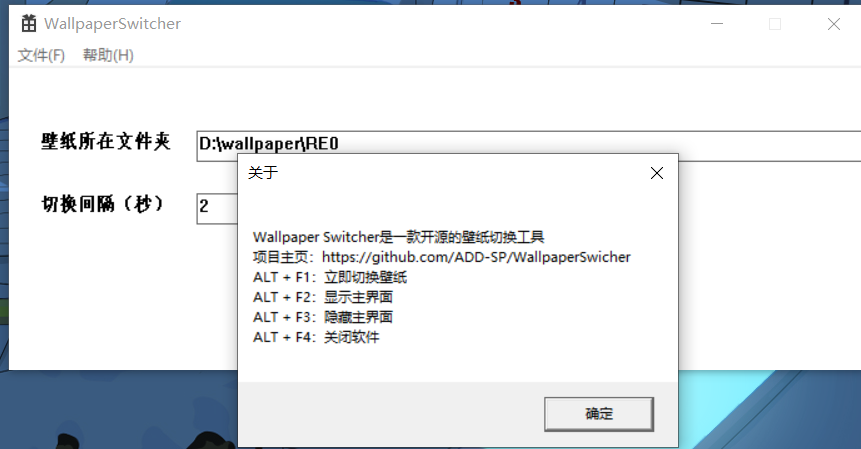
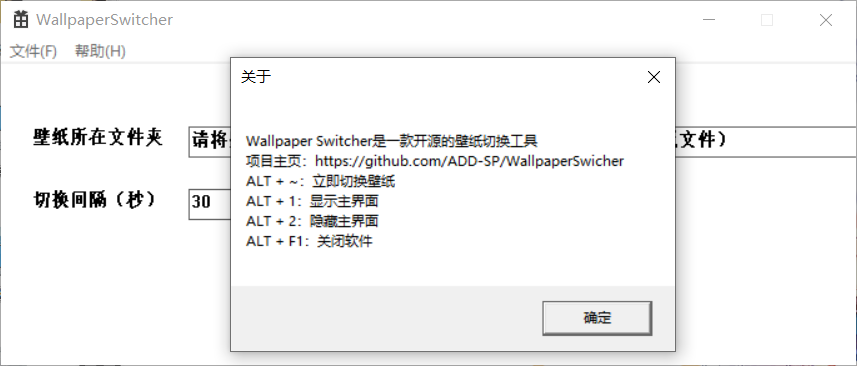
修复了重启后配置丢失BUG，更改了快捷键，在不是第一次打开的时候自动隐藏窗口；

Changed region(s): [[0.0, 0.0, 1.0, 1.0]]

diff --git a/WallpaperSwitcher/Project3.cpp b/WallpaperSwitcher/Project3.cpp
@@ -21,7 +21,7 @@
 #define HOT_KEY_SHOW 3
 #define HOT_KEY_DESTORY 4
 #define GUIDE L"请将壁纸所在文件夹拖拽到此处（目录下不能有任何非壁纸文件）"
-#define ABOUT L"Wallpaper Switcher是一款开源的壁纸切换工具\n项目主页：https://github.com/ADD-SP/WallpaperSwicher\nALT + F1：立即切换壁纸\nALT + F2：显示主界面\nALT + F3：隐藏主界面\nALT + F4：关闭软件"
+#define ABOUT L"Wallpaper Switcher是一款开源的壁纸切换工具\n项目主页：https://github.com/ADD-SP/WallpaperSwicher \nALT + ~：立即切换壁纸\nALT + 1：显示主界面\nALT + 2：隐藏主界面\nALT + F1：关闭软件"
 #define CONFIG_FILE (L"config.ini")
 
 using std::unordered_set;
@@ -56,7 +56,8 @@ void				SetWallpaperFolder(HWND hWnd);
 void				fillWallpaperSet(HWND hWnd);
 void				HotKeyProc(WPARAM wParam);
 void				fillThrowedWallpaperSet(HWND hWnd);
-void				initConfigFile();
+void				InitConfigFile();
+void				SaveConfigFile();
 void				SetSwichTime();
 
 int APIENTRY wWinMain(_In_ HINSTANCE hInstance,
@@ -83,7 +84,7 @@ int APIENTRY wWinMain(_In_ HINSTANCE hInstance,
     HACCEL hAccelTable = LoadAccelerators(hInstance, MAKEINTRESOURCE(IDC_PROJECT3));
 
 	srand(time(0));
-	initConfigFile();
+	InitConfigFile();
 
     MSG msg;
     // 主消息循环:
@@ -193,19 +194,19 @@ BOOL InitInstance(HINSTANCE hInstance, int nCmdShow)
 	   // CW_USEDEFAULT, 0, 700, 300, nullptr, nullptr, hInstance, nullptr);
 
 
-   // 注册快捷键 ALT + F1，功能为立即切换壁纸
-   RegisterHotKey(g_hWnd, HOT_KEY_SWITCH_WALLPAPER, MOD_ALT, VK_F1);
+   // 注册快捷键 ALT + ~，功能为立即切换壁纸
+   RegisterHotKey(g_hWnd, HOT_KEY_SWITCH_WALLPAPER, MOD_ALT, VK_OEM_3);
    
    // RegisterHotKey(hWnd, HOT_KEY_THROW_WALLPAPER, MOD_CONTROL, 0x44);
   
-   // 注册快捷键 ALT + F3，功能为隐藏软件界面
-   RegisterHotKey(g_hWnd, HOT_KEY_HIDE, MOD_ALT, VK_F3);
+   // 注册快捷键 ALT + 2，功能为隐藏界面
+   RegisterHotKey(g_hWnd, HOT_KEY_HIDE, MOD_ALT, 0x32);
 
-   // 注册快捷键 ALT + F2，功能为显示软件界面
-   RegisterHotKey(g_hWnd, HOT_KEY_SHOW, MOD_ALT, VK_F2);
+   // 注册快捷键 ALT + 1，功能为显示软件界面
+   RegisterHotKey(g_hWnd, HOT_KEY_SHOW, MOD_ALT, 0x31);
 
-   // 注册快捷键 ALT + F4，功能为关闭软件
-   RegisterHotKey(g_hWnd, HOT_KEY_DESTORY, MOD_ALT, VK_F4);
+   // 注册快捷键 ALT + F1，功能为关闭软件
+   RegisterHotKey(g_hWnd, HOT_KEY_DESTORY, MOD_ALT, VK_F1);
    
 
    if (!g_hWnd || !g_hFirstEdit || !g_hButton)
@@ -271,6 +272,7 @@ LRESULT CALLBACK WndProc(HWND hWnd, UINT message, WPARAM wParam, LPARAM lParam)
 		{
 			SetWallpaperFolder(hWnd);
 			SetSwichTime();
+			SaveConfigFile();
 			SendMessage(hWnd, WM_TIMER, 0, 0);
 		}
 		break;
@@ -296,21 +298,7 @@ LRESULT CALLBACK WndProc(HWND hWnd, UINT message, WPARAM wParam, LPARAM lParam)
 		break;
 	case WM_DESTROY:
 	{
-		WCHAR folder[MAX_FILENAME] = { 0 };
-		fclose(g_fpConfit);
-		_tfopen_s(&g_fpConfit, CONFIG_FILE, L"w, ccs=UTF-8");
-		if (g_fpConfit == nullptr)
-		{
-			MessageBox(hWnd, L"保存配置文件失败，请检查运行目录权限或以管理员身份运行。", L"错误！", MB_OK);
-		}
-		else
-		{
-			GetWindowText(g_hFirstEdit, folder, MAX_FILENAME);
-			fwprintf_s(g_fpConfit, L"%s", folder);
-			fwprintf_s(g_fpConfit, L"%s", L"\n");
-			GetWindowText(g_hSecondEdit, folder, MAX_FILENAME);
-			fwprintf_s(g_fpConfit, L"%s", folder);
-		}
+		SaveConfigFile();
 	}
 	PostQuitMessage(0);
 	break;
@@ -365,7 +353,7 @@ INT_PTR CALLBACK About(HWND hDlg, UINT message, WPARAM wParam, LPARAM lParam)
 }
 */
 
-void initConfigFile()
+void InitConfigFile()
 {
 	WCHAR text[MAX_FILENAME] = { 0 };
 	_tfopen_s(&g_fpConfit, CONFIG_FILE, L"r, ccs=UTF-8");
@@ -392,6 +380,28 @@ void initConfigFile()
 		fwscanf_s(g_fpConfit, L"%ws", text, MAX_FILENAME);
 		SetWindowText(g_hSecondEdit, text);
 		SetSwichTime();
+
+		SendMessage(g_hWnd, WM_HOTKEY, HOT_KEY_HIDE, 0);
+	}
+}
+
+void SaveConfigFile()
+{
+	WCHAR folder[MAX_FILENAME] = { 0 };
+	fclose(g_fpConfit);
+	_tfopen_s(&g_fpConfit, CONFIG_FILE, L"w, ccs=UTF-8");
+	if (g_fpConfit == nullptr)
+	{
+		MessageBox(g_hWnd, L"保存配置文件失败，请检查运行目录权限或以管理员身份运行。", L"错误！", MB_OK);
+	}
+	else
+	{
+		GetWindowText(g_hFirstEdit, folder, MAX_FILENAME);
+		fwprintf_s(g_fpConfit, L"%s", folder);
+		fwprintf_s(g_fpConfit, L"%s", L"\n");
+		GetWindowText(g_hSecondEdit, folder, MAX_FILENAME);
+		fwprintf_s(g_fpConfit, L"%s", folder);
+		fclose(g_fpConfit);
 	}
 }
 

diff --git a/README.md b/README.md
@@ -1,6 +1,8 @@
 # WallpaperSwicher
 一个从指定文件夹中获得壁纸并自动定时切换的小工具，使用C++和Windows API编写，有一个简洁（粗制滥造）的窗口。
 
+如果你也有兴趣的话欢迎联系我一起开发（发个issue告知就好）。
+
 # 概况
 
 开发语言：C++
@@ -16,15 +18,15 @@ IDE：Microsoft Visual Studio 2019
 使用Microsoft Visual Studio 2019（2017应该问题也不大，更低的版本就不清楚了）打开项目根目录的"WallpaperSwitcher.sln"进行修改编译；
 或[直接下载](https://github.com/ADD-SP/WallpaperSwitcher/releases)
 
-> ALT + F1 立即切换到下一张壁纸
+> ALT + ~ 立即切换到下一张壁纸
 
-> ALT + F2 隐藏软件界面显示软件界面
+> ALT + 2 隐藏软件界面
 
-> ALT + F3 隐藏软件界面
+> ALT + 1 显示软件界面
 
-> ALT + F4 关闭软件
+> ALT + F1 关闭软件
 
-**P S：目前还没有增加自启动功能，如果需要可以自行将软件拷贝到“C:\ProgramData\Microsoft\Windows\Start Menu\Programs\StartUp”目录下。**
+**P S：目前还没有增加自启动功能，如果需要可以自行将软件的快捷方式拷贝到“C:\ProgramData\Microsoft\Windows\Start Menu\Programs\StartUp”目录下，而软件本身则可以放置到任意位置**
 
 # 目录结构
 直接用Microsoft Visual Studio 2019（2017应该问题也不大，更低的版本就不清楚了）打开就好，不需要目录结构说明
@@ -46,4 +48,9 @@ IDE：Microsoft Visual Studio 2019
 9. 用JS写这种东西太痛苦了，而且还需要修改Wallpaper Engine上的作品的不少地方的代码，容易出问题；。
 9. 干脆自己写一个。
 10. 顺带搞一下自己大一就想搞得Windows API，来一次Windows API编程。
+
+# 更新日志
+
+## 2019/11/17
++ 修复了重启后配置丢失BUG，更改了快捷键，在不是第一次打开的时候自动隐藏窗口；
 
